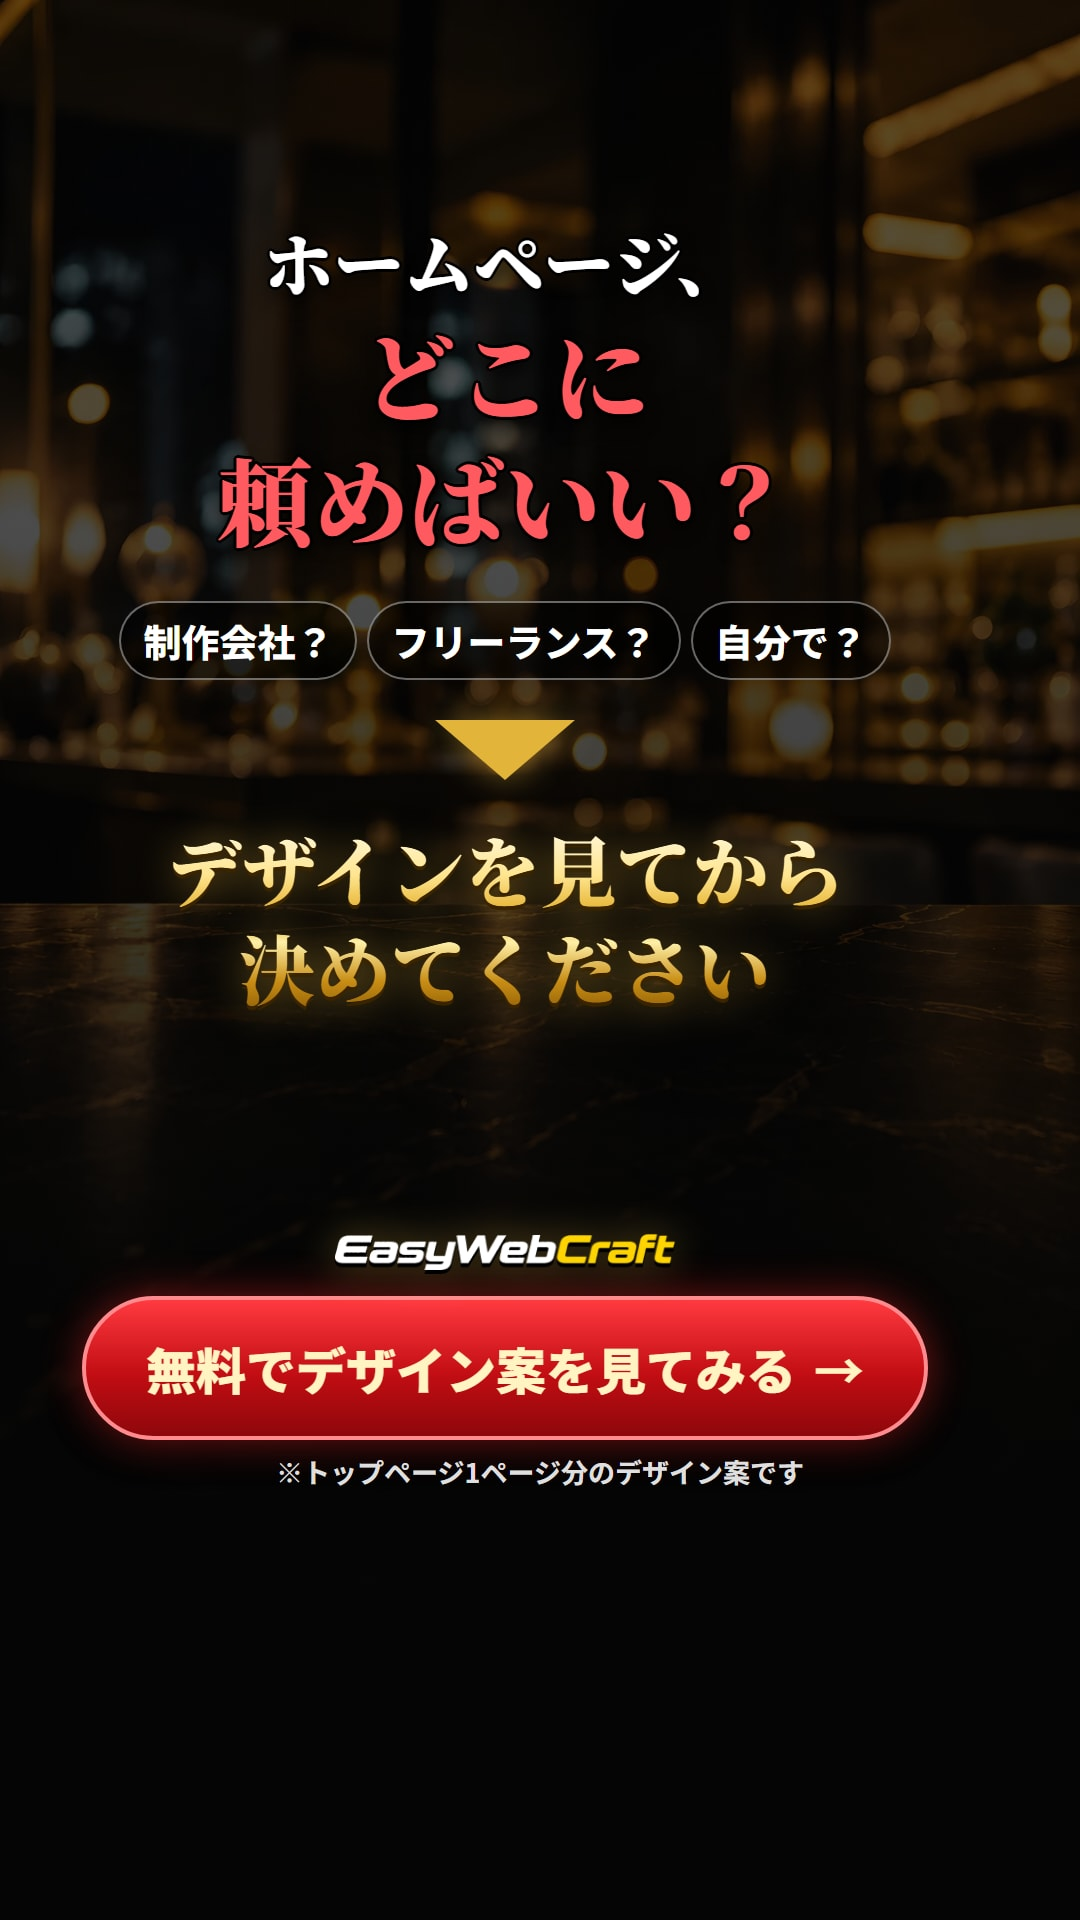
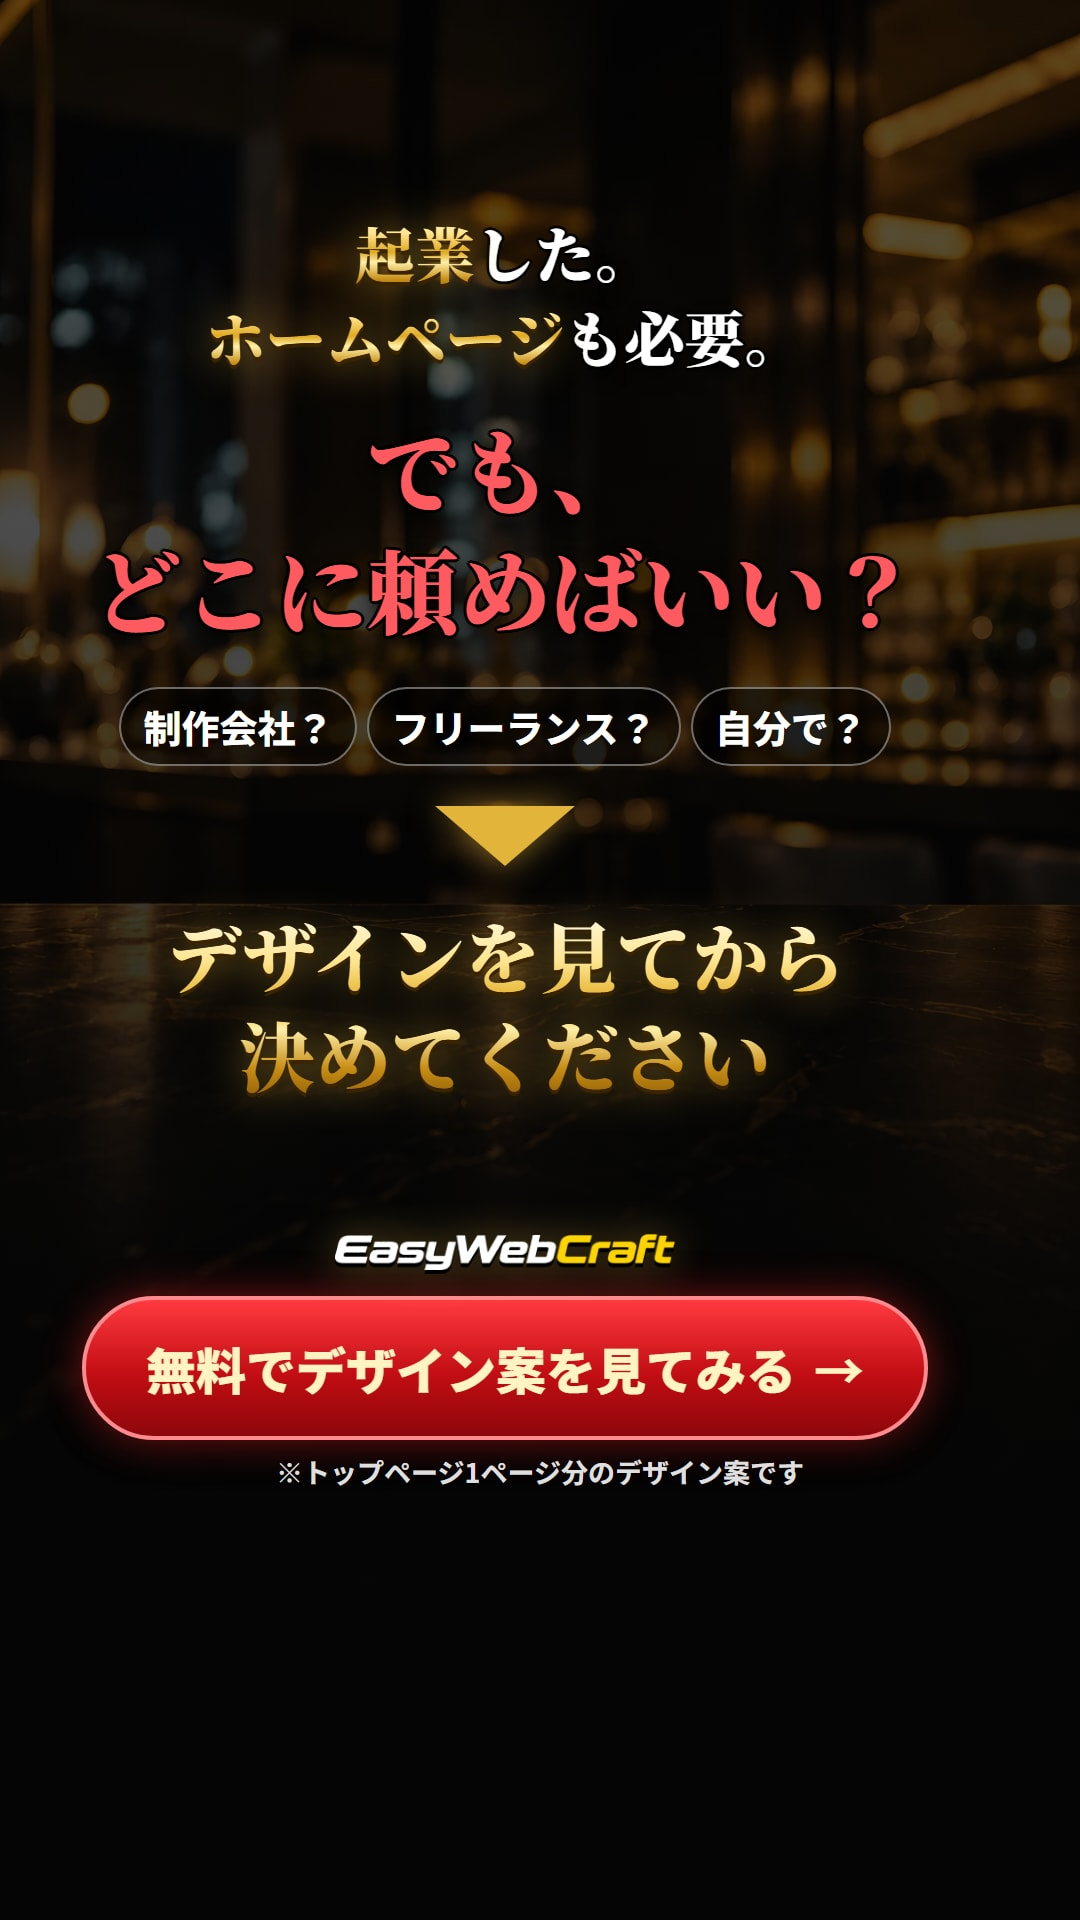
C2に「起業したばかりの方へ」を追加、C3を「起業した。ホームページも必要。でも、どこに頼めばいい？」に変更
Claude-Session: https://claude.ai/code/session_01G65TiHfa1BUco43NvNDLJF

Changed region(s): [[0.0917, 0.0938, 0.825, 0.5938]]

diff --git a/challenge/index.html b/challenge/index.html
@@ -44,8 +44,8 @@ code{background:var(--bg); padding:0 5px; border-radius:4px; font-size:.88em; wo
 
   <div class="grid">
     <div class="card"><img src="jpg/c1.jpg?v=5" alt="起業したばかりの経営者様へ ホームページ制作 月額5,980円〜"><div class="no"><b>C1</b>起業直後×価格</div><span class="tgt">起業したばかり</span><span class="star">顔出し</span><p class="cap">起業したばかりの経営者様へ。ホームページ制作が月額5,980円〜（税別）。</p></div>
-    <div class="card"><img src="jpg/c2.jpg?v=5" alt="こんなに安くて本当にちゃんとしたHPができるの？"><div class="no"><b>C2</b>安すぎて不安？</div><span class="tgt">価格に不安がある人</span><span class="star">主力候補</span><p class="cap">安いHPって、ちょっと不安。だから、契約前にデザインを作ります。0円。</p></div>
-    <div class="card"><img src="jpg/c3.jpg?v=5" alt="起業した。でも、どこに頼めばいい？"><div class="no"><b>C3</b>どこに頼めばいい？</div><span class="tgt">依頼先で迷っている人</span><span class="star">新規</span><p class="cap">ホームページ、どこに頼めばいい？制作会社？フリーランス？自分で？デザインを見てから決めてください。</p></div>
+    <div class="card"><img src="jpg/c2.jpg?v=6" alt="こんなに安くて本当にちゃんとしたHPができるの？"><div class="no"><b>C2</b>安すぎて不安？</div><span class="tgt">価格に不安がある人</span><span class="star">主力候補</span><p class="cap">起業したばかりの方へ。こんなに安くて本当にちゃんとしたHPができるの？契約前に実物を見せます。HPデザイン案0円。</p></div>
+    <div class="card"><img src="jpg/c3.jpg?v=6" alt="起業した。でも、どこに頼めばいい？"><div class="no"><b>C3</b>どこに頼めばいい？</div><span class="tgt">依頼先で迷っている人</span><span class="star">新規</span><p class="cap">起業した。ホームページも必要。でも、どこに頼めばいい？制作会社？フリーランス？自分で？デザインを見てから決めてください。</p></div>
     <div class="card"><img src="jpg/c4.jpg?v=5" alt="事業は決まった。でも、ホームページは何から始めればいい？"><div class="no"><b>C4</b>何から始めれば？</div><span class="tgt">HPの知識がない人</span><span class="star">顔出し</span><p class="cap">事業は決まった。でも、ホームページは何から始めればいい？何も決まってなくてOK。</p></div>
     <div class="card"><img src="jpg/c5.jpg?v=5" alt="起業したばかり。やることだらけでHPまで手が回らない"><div class="no"><b>C5</b>手が回らない</div><span class="tgt">本業が忙しい人</span><span class="star">顔出し</span><p class="cap">起業したばかり。やることだらけでHPまで手が回らない。まとめてお任せください。</p></div>
     <div class="card"><img src="jpg/c6.jpg?v=5" alt="起業したばかりだから、HPに大金はかけられない"><div class="no"><b>C6</b>安心3点セット</div><span class="tgt">比較検討中の人（リターゲティング向き）</span><p class="cap">HPに大金はかけられない。初期費用0円・デザイン案0円・月額5,980円〜（税別）。</p></div>

diff --git a/challenge/ads.html b/challenge/ads.html
@@ -153,15 +153,16 @@ body{width:1080px; font-family:"Noto Sans JP",sans-serif; color:#fff; background
 <!-- C2 安すぎて不安 → 契約前にデザイン案0円 -->
 <section class="ad" id="c2">
   <div class="in">
-    <div class="g60"></div>
-    <p class="serif outline" style="font-size:84px; line-height:1.35">安いHPって、<br><span class="red">ちょっと不安。</span></p>
-    <div class="g60"></div>
-    <div class="arrow"></div>
-    <div class="g40"></div>
-    <p class="serif outline" style="font-size:60px">だから、</p>
-    <p class="serif gold" style="font-size:84px; line-height:1.3">契約前に<br>デザインを作ります</p>
+    <div class="g20"></div>
+    <p class="label" style="font-size:40px">起業したばかりの方へ</p>
+    <div class="g20"></div>
+    <p class="q" style="font-size:70px">こんなに安くて本当に<br><b>ちゃんとしたHP</b><br>ができるの？</p>
     <div class="g30"></div>
-    <p class="serif outline" style="font-size:70px"><span class="n gold" style="font-family:var(--num); font-size:220px; line-height:1">0</span>円</p>
+    <div class="arrow"></div>
+    <div class="g30"></div>
+    <p class="serif gold" style="font-size:66px; line-height:1.3">契約前に実物を見せます</p>
+    <div class="g30"></div>
+    <div class="offer"><p class="h">HPデザイン案</p><p class="p"><b class="gold">0</b>円</p></div>
     <div class="sp"></div>
     <img class="logo blogo" src="img/logo-fv.webp" alt="EasyWebCraft">
     <p class="cta">無料でデザイン案を見てみる</p>
@@ -173,8 +174,9 @@ body{width:1080px; font-family:"Noto Sans JP",sans-serif; color:#fff; background
 <section class="ad" id="c3">
   <div class="in">
     <div class="g40"></div>
-    <p class="serif outline" style="font-size:70px">ホームページ、</p>
-    <p class="serif red outline" style="font-size:96px; line-height:1.3">どこに<br>頼めばいい？</p>
+    <p class="serif outline" style="font-size:60px; line-height:1.4"><span class="gold">起業</span>した。<br><span class="gold">ホームページ</span>も必要。</p>
+    <div class="g30"></div>
+    <p class="serif red outline" style="font-size:92px; line-height:1.3">でも、<br>どこに頼めばいい？</p>
     <div class="g40"></div>
     <div class="chips"><span>制作会社？</span><span>フリーランス？</span><span>自分で？</span></div>
     <div class="g40"></div>
